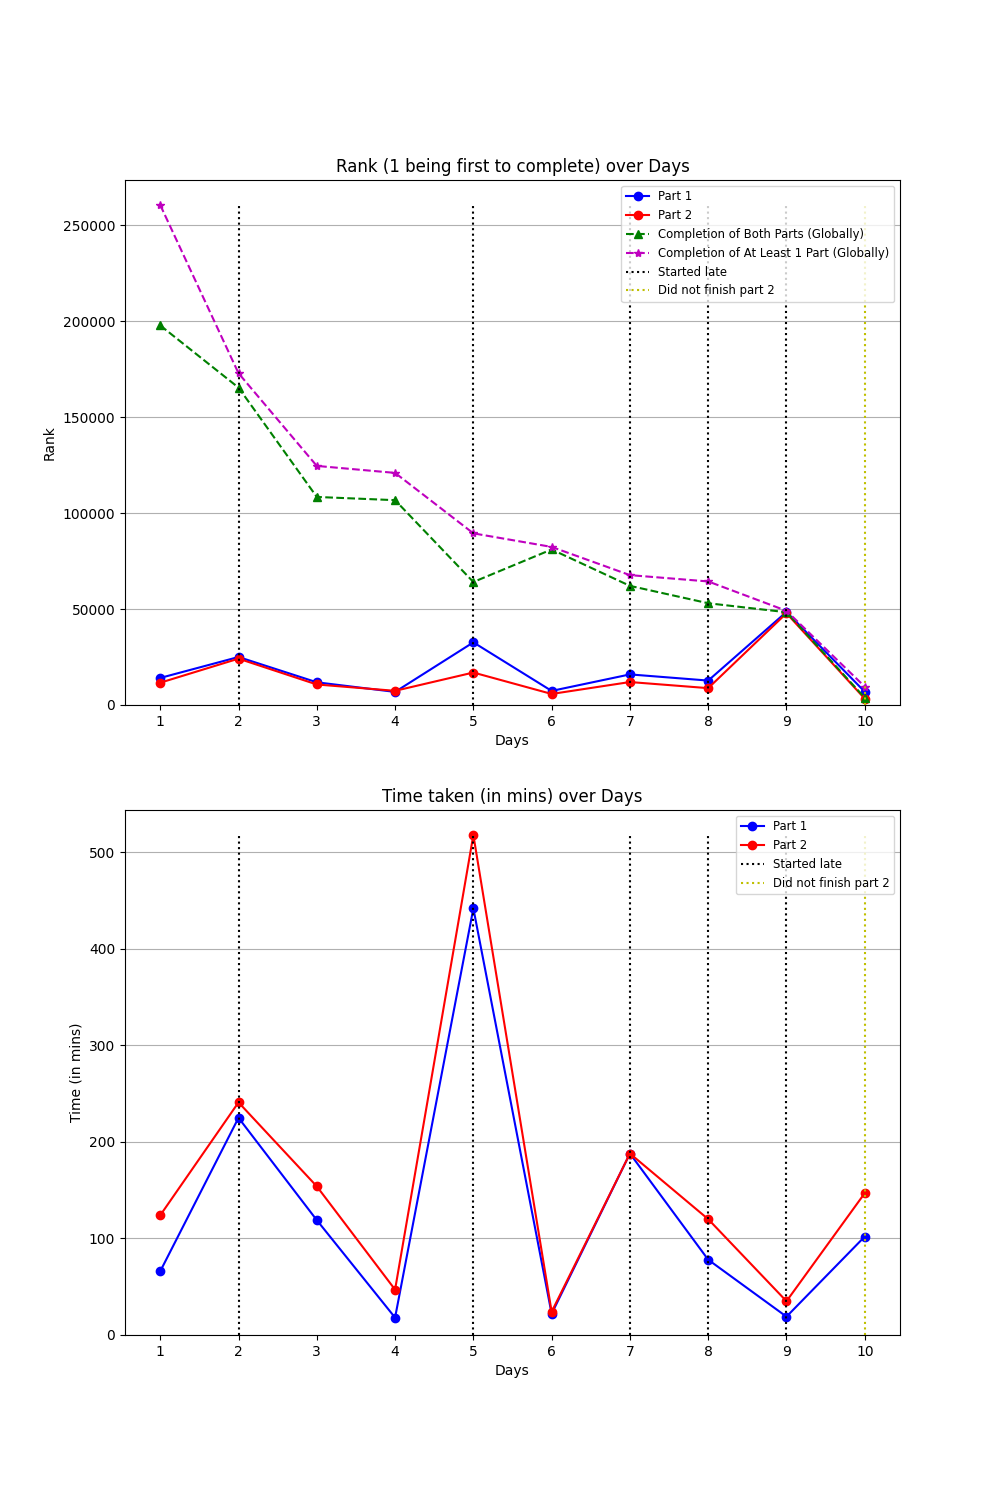
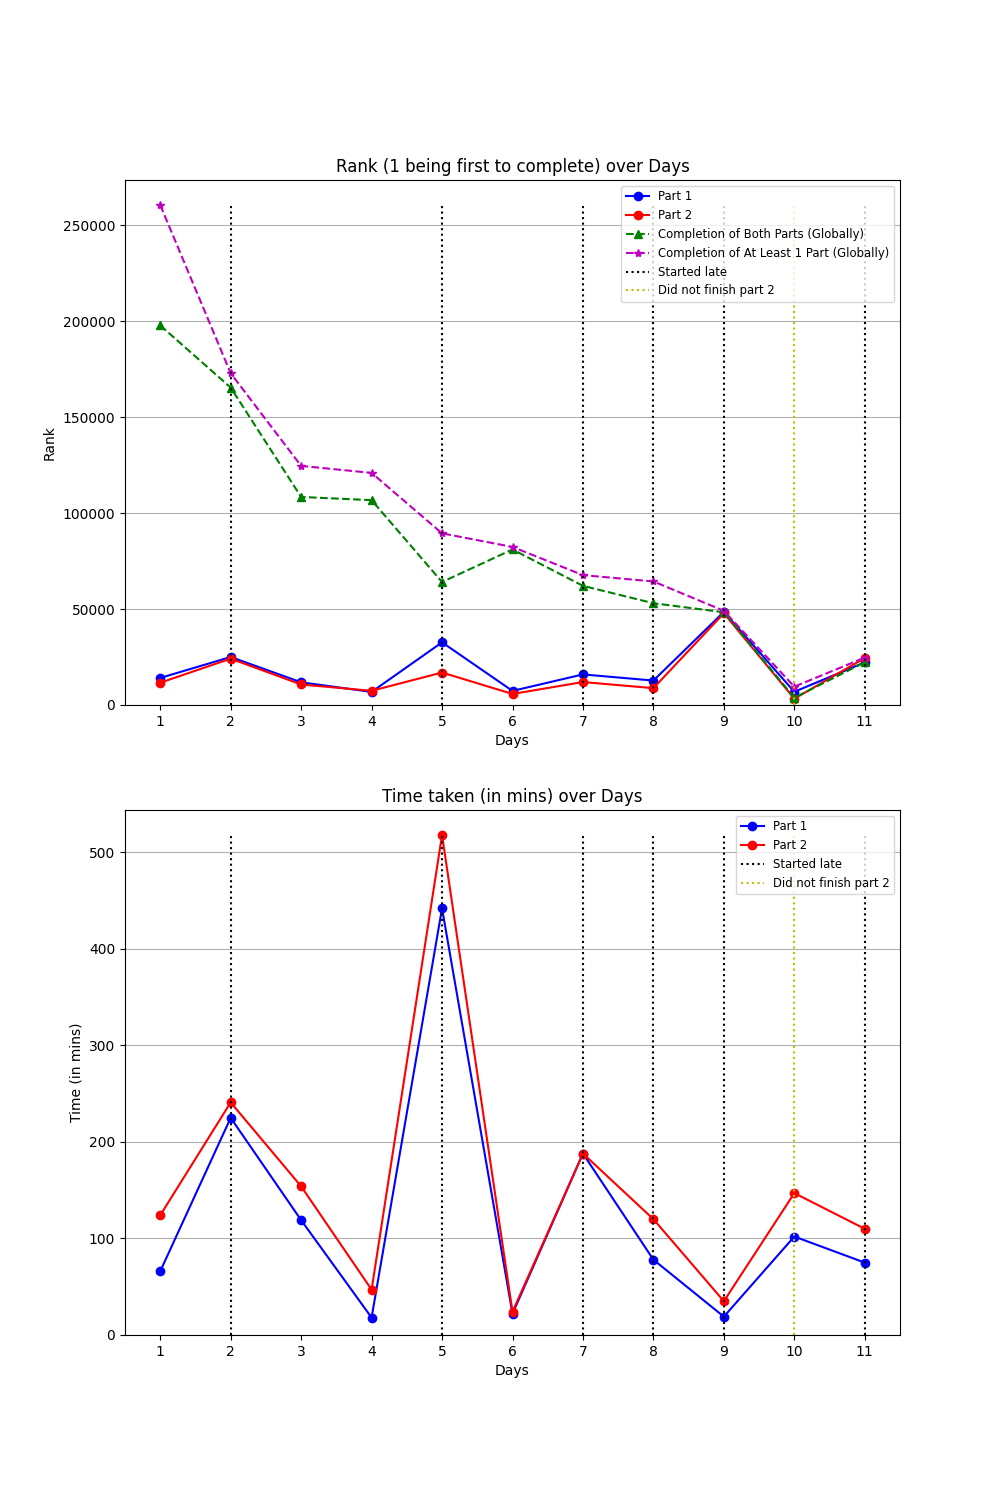
Added day 11 code and stats

diff --git a/stats/stats.py b/stats/stats.py
@@ -1,15 +1,29 @@
 import numpy as np
 import matplotlib.pyplot as plt
 
-one_rank = [14_101, 25_010, 11_831, 6_816, 32_645, 7_344, 15_939, 12_729, 48_507, 6_895]                           # rank for part 1
-two_rank = [11_613, 24_146, 10_693, 7_384, 16_922, 5_753, 11_968, 8_778, 47_813, 3_266]                           # rank for part 2
-two_stars_tot = [197_788, 165_384, 108_409, 106_732, 64_088, 81_050, 62_077, 53_025, 48_334, 3_774]                  # number of people that completed both parts
-add = [62_747, 7_482, 16_174, 14_209, 25_353, 1_317, 5_597, 11_353, 740, 5_781]                                 # number of people that completed part 1 only
-anomalies = [2, 5, 7, 8, 9]                                                                            # days where I did not start on time
-DNF_2 = [10]       
+# rank for part 1
+one_rank = [14_101, 25_010, 11_831, 6_816, 32_645, 7_344, 15_939, 12_729, 48_507, 6_895, 22_213]
 
-one_time = [(1,6,6), (3,44,38), (1,59,16), (0,18,0), (7,22,24), (0,22,7), (3,8,21), (1,18,15), (0,19,0), (1,41,34)]        # time taken for part 1 in (hrs, mins, secs)
-two_time = [(2,3,32), (4,0,37), (2,34,4), (0,46,44), (8,38,27), (0,24,7), (3,8,29), (1,59,59), (0,35,0), (2,26,53)]        # time taken for part 2 in (hrs, mins, secs)
+# rank for part 2                
+two_rank = [11_613, 24_146, 10_693, 7_384, 16_922, 5_753, 11_968, 8_778, 47_813, 3_266, 24_483]
+
+# number of people that completed both parts
+two_stars_tot = [201_569, 169_215, 111_387, 110_134, 66_694, 84_603, 65_640, 57_612, 56_437, 30_343, 22_283]
+
+# number of people that completed part 1 only
+add = [63_784, 7_621, 16_568, 14_559, 25_962, 1_378, 5_772, 11_638, 797, 14_301, 2_416]
+
+# days where I did not start on time
+anomalies = [2, 5, 7, 8, 9, 11]
+
+# days where I did not finish
+DNF_2 = [10]
+
+# time taken for part 1 in (hrs, mins, secs)
+one_time = [(1,6,6), (3,44,38), (1,59,16), (0,18,0), (7,22,24), (0,22,7), (3,8,21), (1,18,15), (0,19,0), (1,41,34), (1,15,0)]       
+
+# time taken for part 2 in (hrs, mins, secs)
+two_time = [(2,3,32), (4,0,37), (2,34,4), (0,46,44), (8,38,27), (0,24,7), (3,8,29), (1,59,59), (0,35,0), (2,26,53), (1,50,0)]        
 i = len(one_rank) + 1
 
 def convert_to_mins(tup):

diff --git a/day_11/day_11.py b/day_11/day_11.py
@@ -1,0 +1,43 @@
+from itertools import combinations
+
+FNAME = "day_11.txt"
+def expand(fname, factor):
+    factor -= 1
+    img = []
+    gals = []
+    rows_empty = []
+    cols_empty = []
+    with open(fname, "r") as f:
+        for idx, line in enumerate(f):
+            if "#" not in line:
+                rows_empty.append(idx)
+            img.append(list(line.strip()))
+    
+    for cols in range(len(img[0])):
+        if not list(filter(lambda x: x[cols] == "#", img)):
+            cols_empty.append(cols)
+
+    for r in range(len(img)):
+        for c in range(len(img[0])):
+            if img[r][c] == "#":
+                new_r = len(list(filter(lambda x: r > x, rows_empty))) * factor + r
+                new_c = len(list(filter(lambda x: c > x, cols_empty))) * factor + c
+                gals.append((new_r, new_c))
+    return gals
+
+def part_1():
+    gals = expand(FNAME, 2)
+    tot = 0
+    for (x1, y1), (x2, y2) in combinations(gals, 2):
+        tot += abs(x2 - x1) + abs(y2 - y1)
+    print(tot)
+
+def part_2():
+    gals = expand(FNAME, 1000000)
+    tot = 0
+    for (x1, y1), (x2, y2) in combinations(gals, 2):
+        tot += abs(x2 - x1) + abs(y2 - y1)
+    print(tot)
+
+part_1()
+part_2()

diff --git a/README.md b/README.md
@@ -36,6 +36,9 @@ Huge thanks to the creator of AOC, [Eric Wastl](http://was.tl/).
 10. Pipe Maze (2/2 stars technically)
     * Part 1 was alright, I made a few logical errors which significantly delayed my score but I was able to solve it using a simple traversal. Part 2 on the other hand was simply too difficult. I had the right idea of counting the parity of the turns and straights to the left of any non-loop elements, but somehow my answer was off by 10. I resorted to searching for solutions in the reddit, so technically I have the 2nd star although I did not finish part 2.
     * Also my mathematical thinking and graph theory were too weak, so I did not consider Hamiltonian circuits or some other theorem that I don't know of.
+11. Cosmic Expansion (2/2 stars)
+    * I misread the question so I thought it was harder than it really was, but it was a relatively simple problem which I managed to figure out quickly once I ironed out implementation mistakes. I've been starting to think more mathematically rather than brute-forcing-ly so I guess that is good too.
+    * Also, AOC has been training me to use itertools and other libraries in Python more often, which I really appreciate.
 
 # Analysis of Times and Completion
 From Day 9 onwards, all timings are recorded from when I opened the problem set, not when the problem set is released. I will still indicate if I start late or did not finish as per normal
